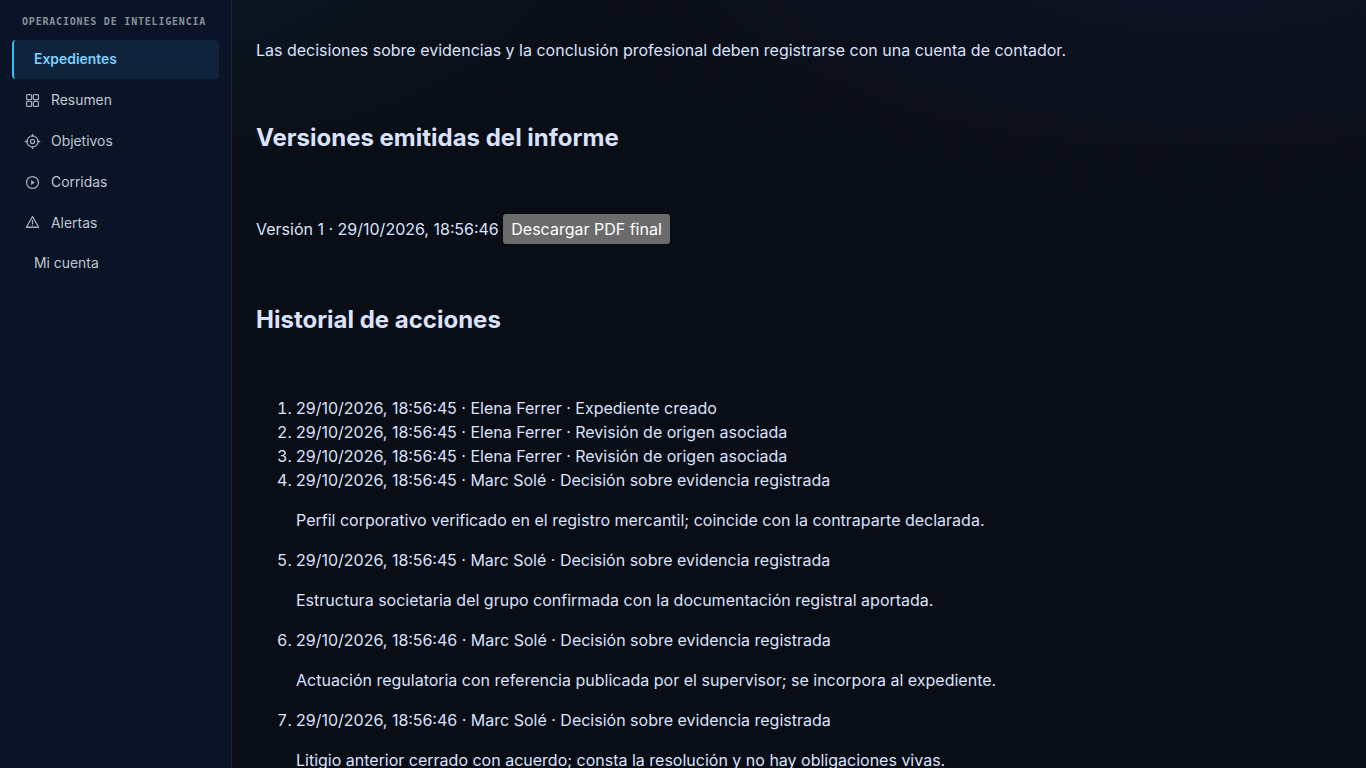
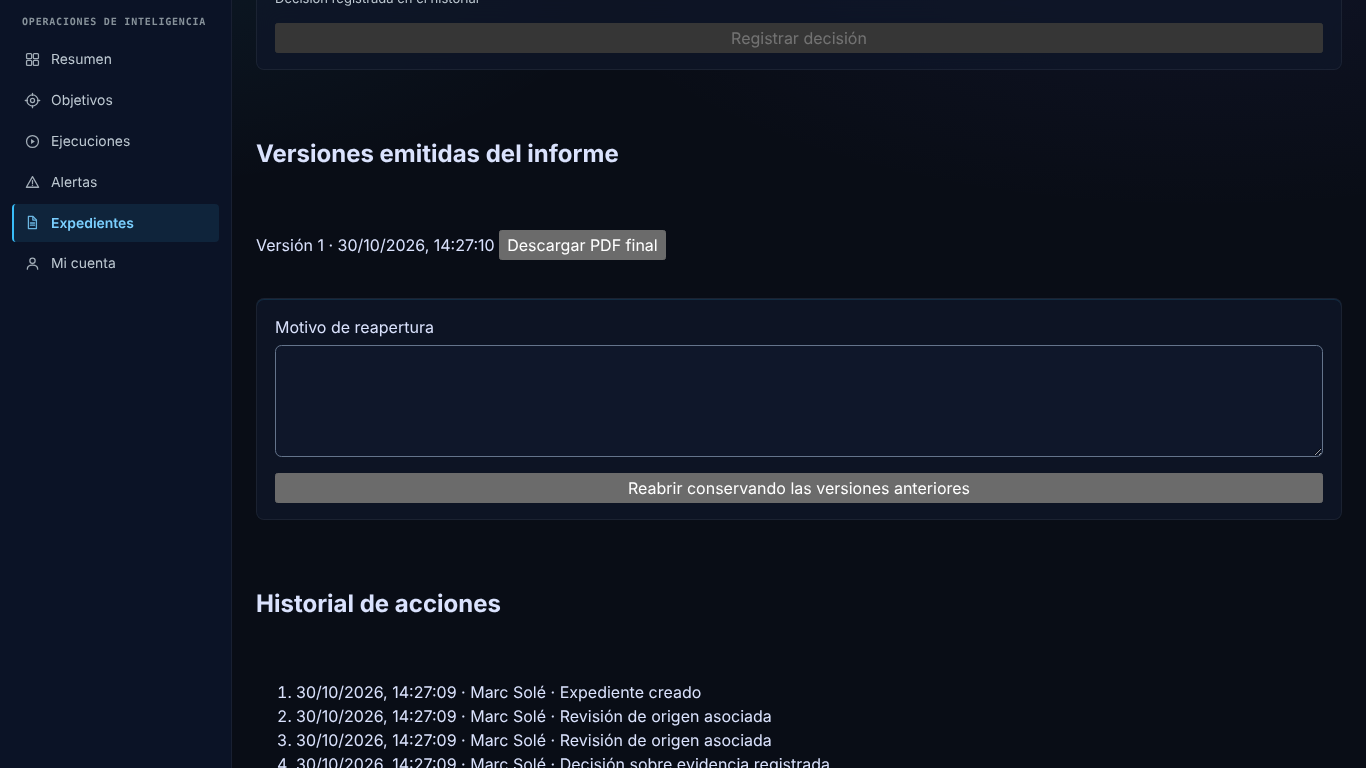
docs: retake the Spanish README screenshots after the vocabulary change
The six dashboard-*-es.png images still showed "Corridas", "Corrida #2"
and "cuenta de contador" after #202 renamed them. They are retaken from
the showcase console on main at the same 1366x768 framing as the English
set: overview, run evidence, dossiers list, dossier decisions, issued
report versions and account administration.

Claude-Session: https://claude.ai/code/session_01PP3rFC1v2DapRF8PySonCG

diff --git a/CHANGELOG.md b/CHANGELOG.md
@@ -11,6 +11,9 @@ from [SECURITY.md](SECURITY.md).
 
 ### Changed
 
+- The six Spanish screenshots under `docs/img/` are retaken from the showcase
+  console after the vocabulary change, so the README no longer shows
+  *Corridas* where the product now says *Ejecuciones*.
 - Spanish operator-facing wording now matches the vocabulary of the people who
   use the product: a run is an *ejecución* (not *corrida*), retention
   *elimina* (not *purga*), the report lists *líneas de investigación
